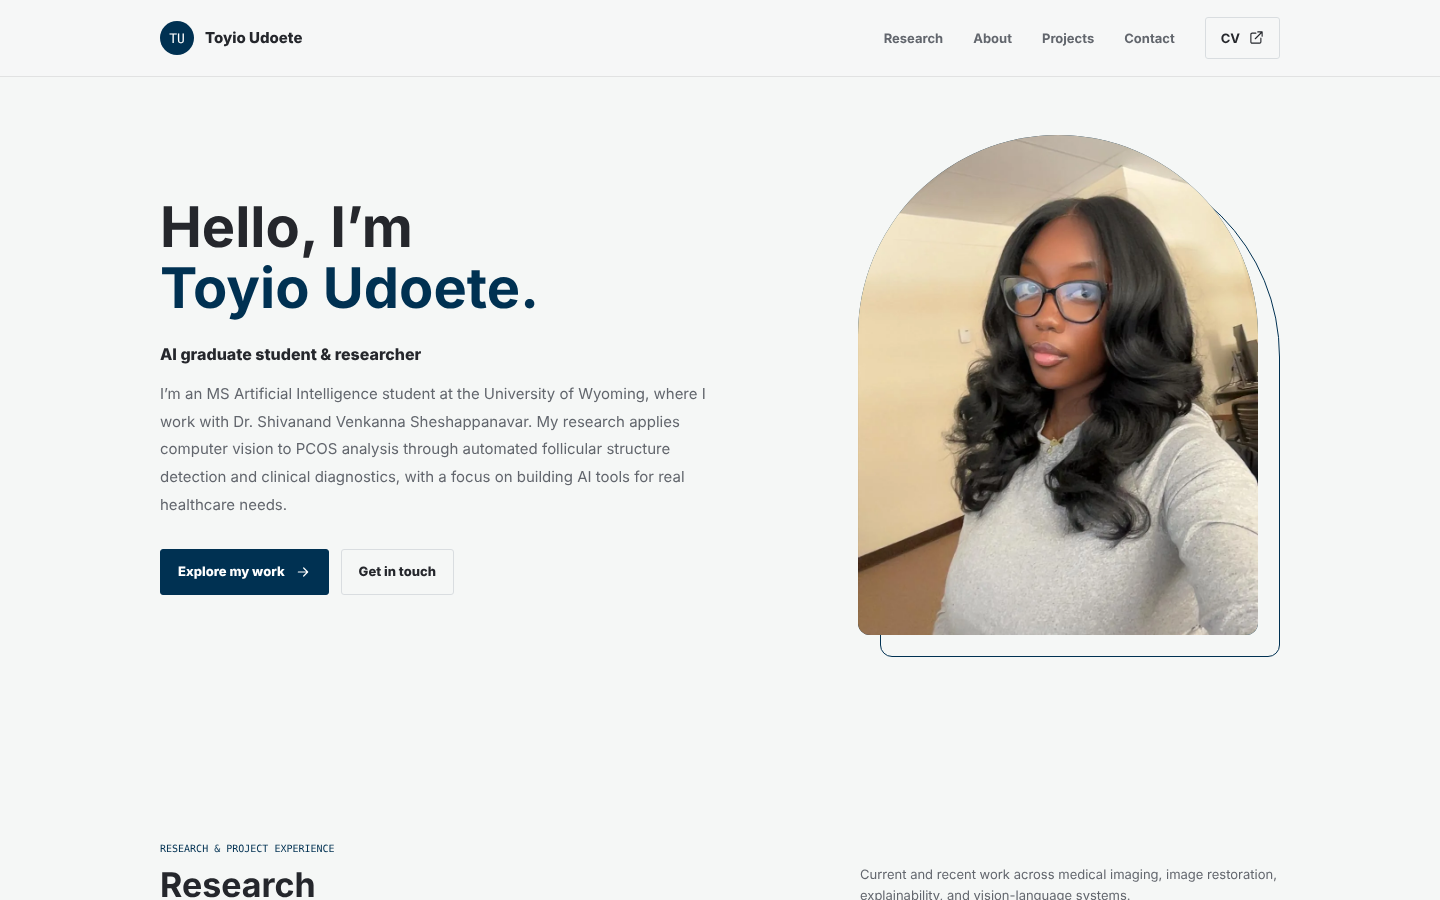
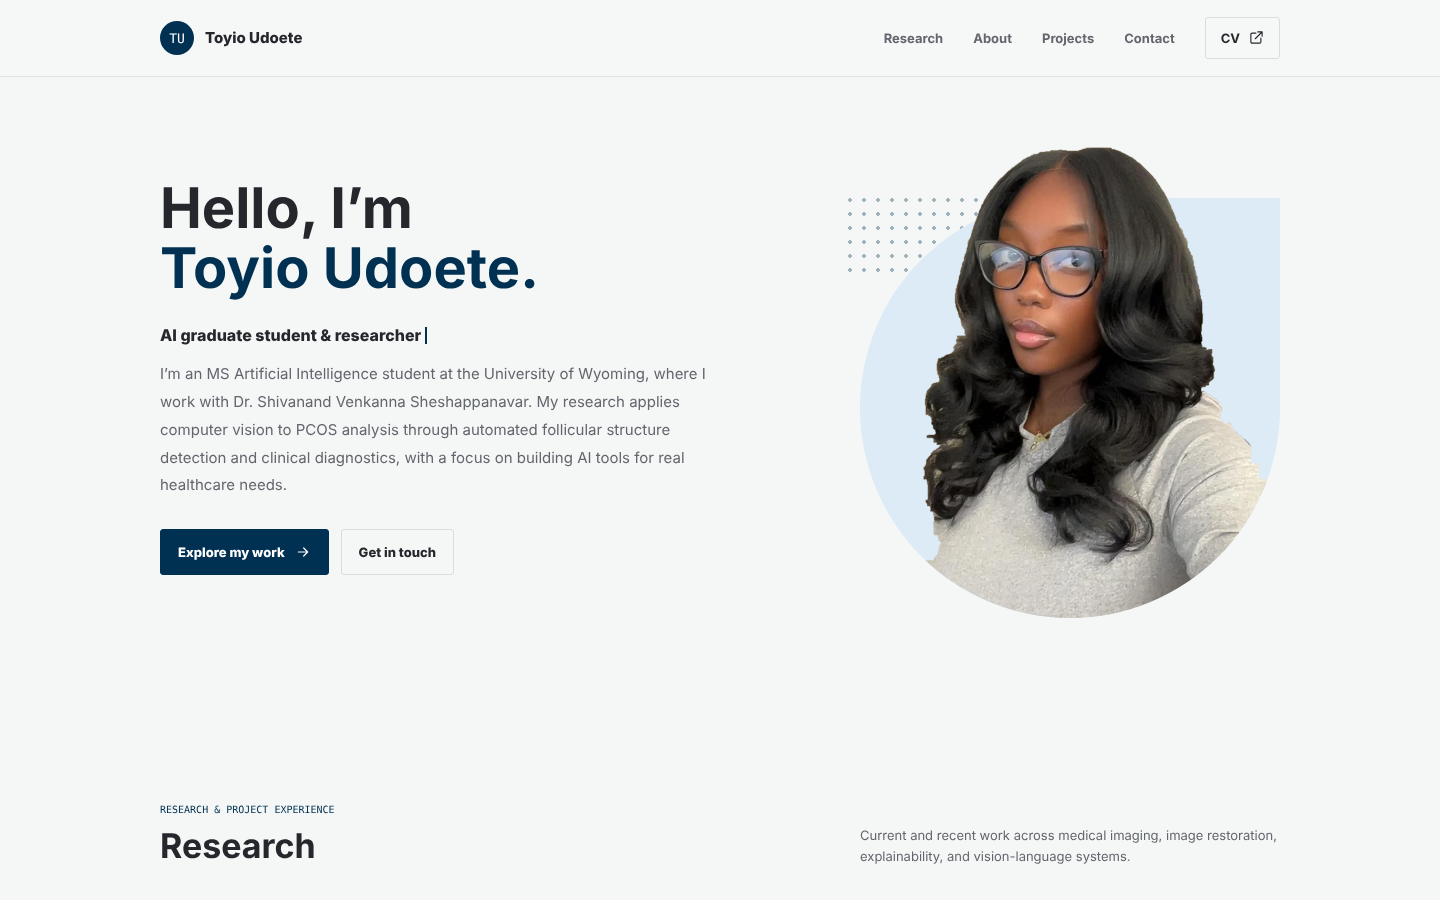
Use cut-out portrait in a teardrop shape for the hero
Background removed from the portrait so the head rises above a light
blue teardrop, with a dot grid accent. Remove the unused arch crops.

Claude-Session: https://claude.ai/code/session_01GzLW4MKdP4LnojXqT3yv3D

diff --git a/index.html b/index.html
@@ -89,13 +89,12 @@
       .hero-meta { display: flex; flex-wrap: wrap; gap: 18px 24px; margin-top: 34px; color: var(--muted); font: 11px var(--mono); }
       .hero-meta span { display: inline-flex; align-items: center; gap: 8px; }
       .hero-meta span::before { width: 6px; height: 6px; border-radius: 50%; background: var(--blue); content: ""; }
-      .portrait-wrap { position: relative; max-width: 400px; justify-self: end; width: 100%; margin: 0 22px 22px 0; }
-      .portrait-wrap::before { position: absolute; inset: 22px -22px -22px 22px; border: 1.5px solid var(--blue); border-radius: 200px 200px 12px 12px; content: ""; transition: inset .9s cubic-bezier(.2,.8,.2,1) .5s; }
-      .js .portrait-wrap::before { inset: 0; }
-      .is-loaded .portrait-wrap::before { inset: 22px -22px -22px 22px; }
-      .portrait-frame { position: relative; overflow: hidden; background: var(--blue); aspect-ratio: 4 / 5; border-radius: 200px 200px 12px 12px; }
-      .portrait-frame picture { display: block; height: 100%; }
-      .portrait-frame img { width: 100%; height: 100%; display: block; object-fit: cover; object-position: center 30%; }
+      .portrait-wrap { position: relative; max-width: 420px; justify-self: end; width: 100%; aspect-ratio: 1 / 1.15; }
+      .portrait-shape { position: absolute; left: 0; right: 0; bottom: 0; aspect-ratio: 1; border-radius: 50% 0 50% 50%; background: #dcebf5; }
+      .portrait-dots { position: absolute; top: 12%; left: -4%; width: 34%; height: 18%; background-image: radial-gradient(rgba(0, 49, 82, .35) 1.6px, transparent 1.8px); background-size: 14px 14px; }
+      .portrait-cut { position: absolute; inset: 0; overflow: hidden; border-radius: 0 0 50% 50% / 0 0 43.48% 43.48%; }
+      .portrait-cut picture { display: block; height: 100%; }
+      .portrait-cut img { width: 100%; height: 100%; display: block; object-fit: cover; object-position: center bottom; }
 
       .section { padding-block: 90px; }
       .projects-section { width: 100%; max-width: none; padding-inline: 0; background: #fff; }
@@ -245,7 +244,7 @@
         h1 { max-width: 450px; font-size: 42px; }
         .hero-role { margin-top: 18px; }
         .hero-copy { font-size: 14px; }
-        .portrait-wrap { width: min(82%, 340px); justify-self: center; }
+        .portrait-wrap { width: min(86%, 340px); justify-self: center; }
         .section { padding-block: 56px; }
         .section-heading { display: block; margin-bottom: 25px; }
         h2 { font-size: 29px; }
@@ -303,7 +302,9 @@
 
           </div>
           <div class="portrait-wrap">
-            <div class="portrait-frame"><picture><source srcset="assets/images/portrait.webp" type="image/webp" /><img src="assets/images/portrait.jpg" alt="Portrait of Toyiomfon Udoete" width="900" height="1125" fetchpriority="high" decoding="async" /></picture></div>
+            <span class="portrait-dots" aria-hidden="true"></span>
+            <span class="portrait-shape" aria-hidden="true"></span>
+            <div class="portrait-cut"><picture><source srcset="assets/images/portrait-cutout.webp" type="image/webp" /><img src="assets/images/portrait-cutout.png" alt="Portrait of Toyiomfon Udoete" width="800" height="920" fetchpriority="high" decoding="async" /></picture></div>
           </div>
         </div>
       </section>
